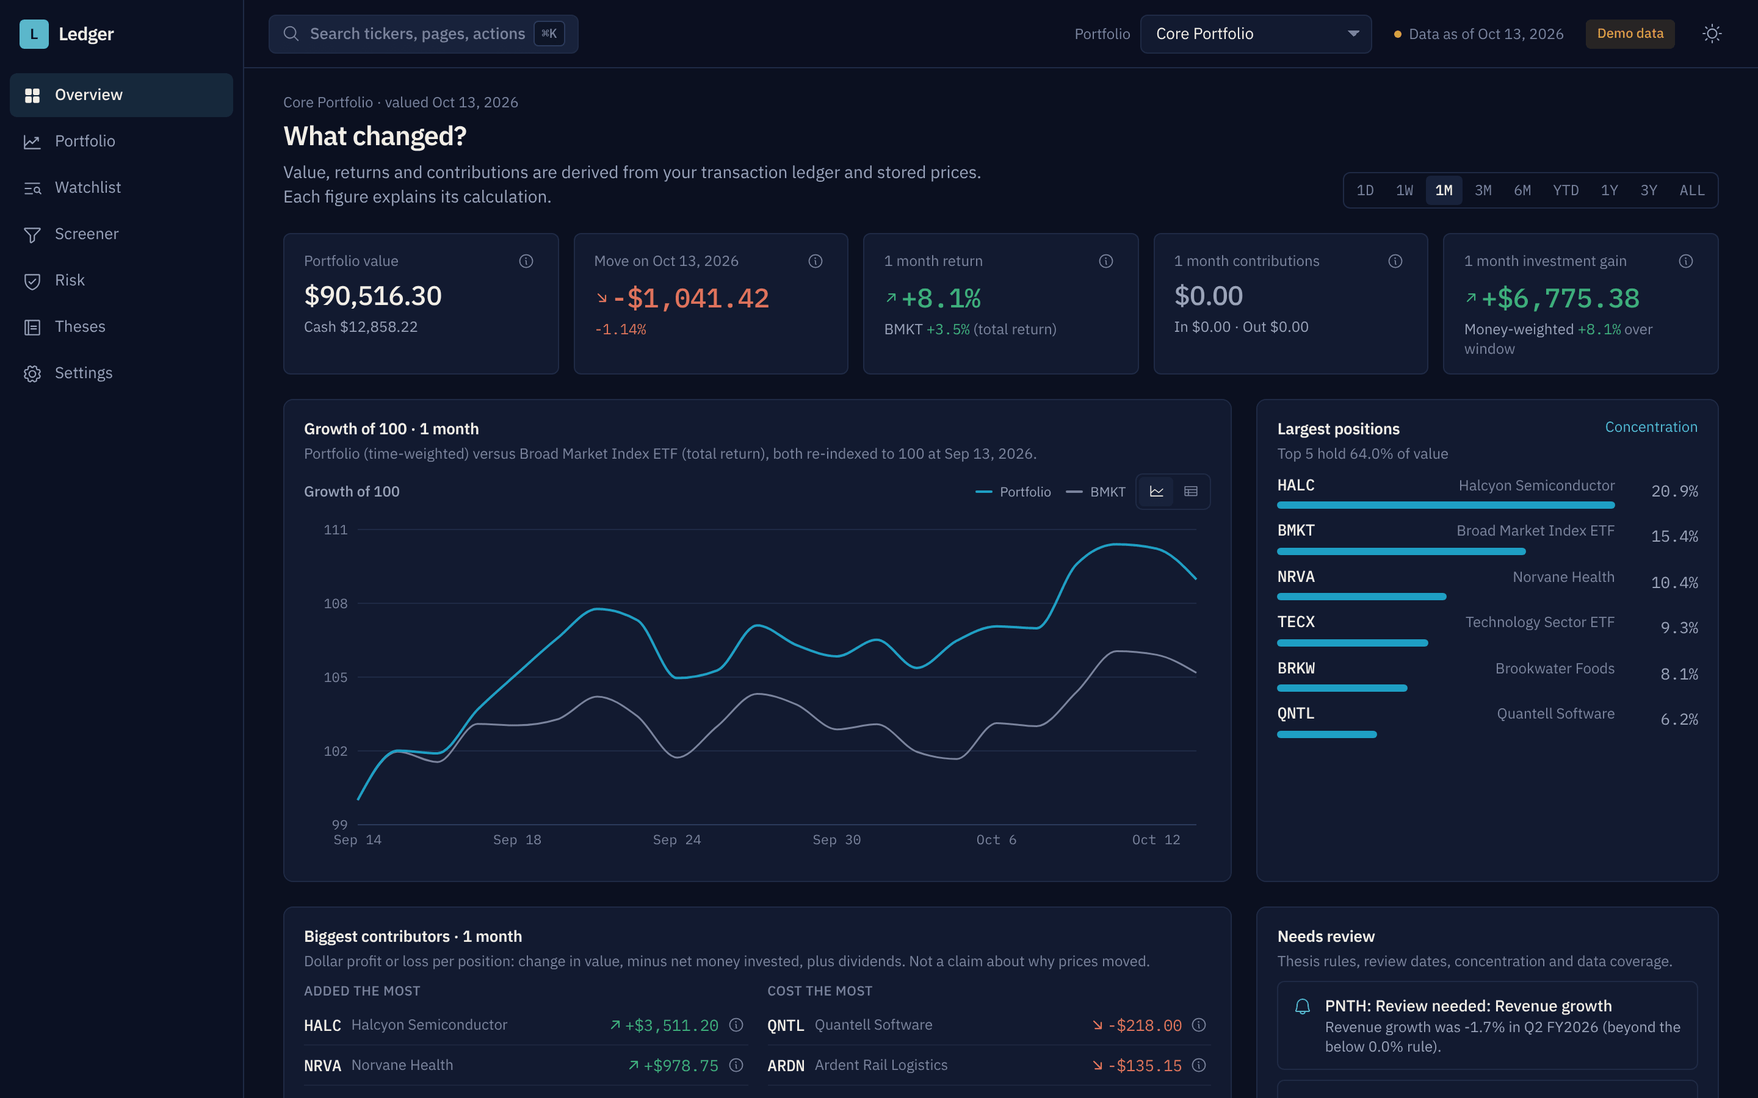
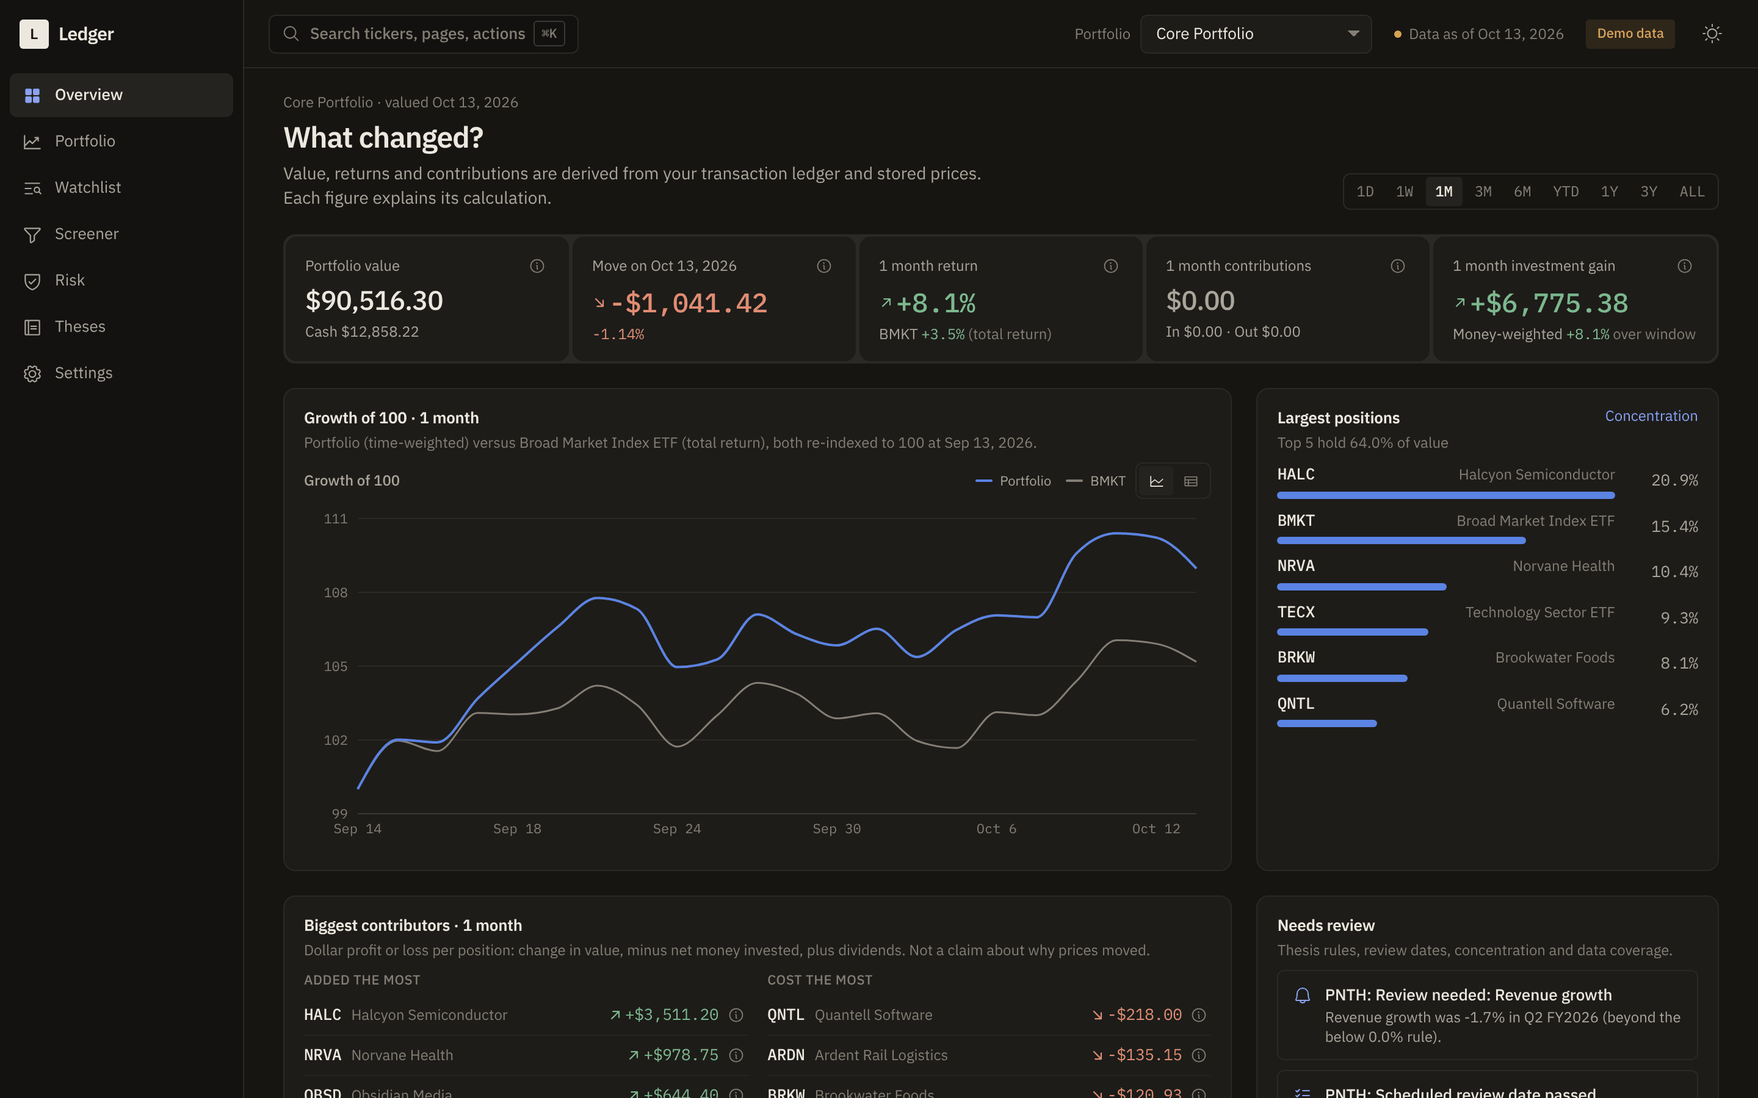
Restyle the interface: warm graphite and paper, one cobalt accent
Replace the navy-and-cyan terminal palette with warm neutral surfaces
(graphite in dark, paper in light) and a single desaturated cobalt
accent reserved for interactive elements. Gains are sage, losses are
terracotta, warnings stay amber. Chart series were re-stepped and
validated for colour-vision separation and contrast in both themes.

Summary metrics now render as one divided strip (tile-strip utility)
instead of a row of bordered cards; an odd last tile spans the row on
narrow screens so no cell is left empty. The sidebar uses an ink logo
mark and a neutral active state with an accent icon, the command
palette highlights with a neutral lift, dialogs contain overscroll,
the radius scale is 3/6/10, shadows are tinted, and text selection
uses the accent with readable contrast.

Screenshots in docs/screenshots and the README design note are
updated to match.

Claude-Session: https://claude.ai/code/session_01RNrmZWSqPuwFyxAM7kdq6o

diff --git a/src/app/globals.css b/src/app/globals.css
@@ -8,88 +8,91 @@
 /* ------------------------------------------------------------------ */
 :root {
   color-scheme: light;
-  --bg: #f4f6f9;
-  --panel: #ffffff;
-  --panel-raised: #f8fafc;
-  --panel-sunken: #eef1f6;
-  --border: #e2e7ef;
-  --border-strong: #c9d2df;
-  --text: #121826;
-  --text-secondary: #4f5b70;
-  --text-muted: #65718a;
-  --text-inverse: #f6f7fa;
-  --accent: #0e7c8c;
-  --accent-strong: #0a6472;
-  --accent-soft: rgba(14, 124, 140, 0.1);
+  /* Paper: warm neutral, no blue cast. */
+  --bg: #f3f2ee;
+  --panel: #fcfcfb;
+  --panel-raised: #f6f5f2;
+  --panel-sunken: #ebe9e4;
+  --border: #e3e0da;
+  --border-strong: #cdc9c1;
+  --text: #1d1b18;
+  --text-secondary: #56524c;
+  --text-muted: #6f6a62;
+  --text-inverse: #f7f6f3;
+  /* One accent, used for links, focus, the active tab and primary actions only. */
+  --accent: #3659c0;
+  --accent-strong: #2a49a6;
+  --accent-soft: rgba(54, 89, 192, 0.09);
   --accent-contrast: #ffffff;
-  --positive: #177a4f;
-  --positive-soft: rgba(23, 122, 79, 0.1);
-  --negative: #b8402b;
-  --negative-soft: rgba(184, 64, 43, 0.1);
-  --warning: #9a6b00;
-  --warning-soft: rgba(154, 107, 0, 0.1);
-  --focus: #0e7c8c;
-  --shadow: 0 1px 2px rgba(18, 24, 38, 0.06), 0 4px 16px rgba(18, 24, 38, 0.06);
-  --overlay: rgba(18, 24, 38, 0.4);
+  --positive: #2b7a4b;
+  --positive-soft: rgba(43, 122, 75, 0.1);
+  --negative: #b2452d;
+  --negative-soft: rgba(178, 69, 45, 0.1);
+  --warning: #8a6214;
+  --warning-soft: rgba(138, 98, 20, 0.1);
+  --focus: #3659c0;
+  --shadow: 0 1px 2px rgba(42, 38, 30, 0.06), 0 6px 20px rgba(42, 38, 30, 0.08);
+  --overlay: rgba(29, 27, 24, 0.42);
 
-  /* Charts (validated with the dataviz palette checks against #ffffff). */
-  --chart-surface: #ffffff;
-  --chart-grid: #e7ebf2;
-  --chart-axis: #c9d2df;
-  --chart-text: #65718a;
-  --series-1: #0e96ad;
-  --series-2: #d95926;
-  --series-3: #6250d6;
-  --series-4: #d55181;
-  --series-5: #c98500;
-  --series-6: #008300;
-  --series-muted: #b6c0cf;
-  --chart-up: #177a4f;
-  --chart-down: #b8402b;
-  --chart-benchmark: #8a94a8;
+  /* Charts (validated with the dataviz palette checks against #fcfcfb). */
+  --chart-surface: #fcfcfb;
+  --chart-grid: #ebe9e4;
+  --chart-axis: #cdc9c1;
+  --chart-text: #6f6a62;
+  --series-1: #3b63c9;
+  --series-2: #eb6834;
+  --series-3: #1baf7a;
+  --series-4: #eda100;
+  --series-5: #e87ba4;
+  --series-6: #6250d6;
+  --series-muted: #c4c0b8;
+  --chart-up: #2b7a4b;
+  --chart-down: #b2452d;
+  --chart-benchmark: #8c877e;
 }
 
 [data-theme="dark"] {
   color-scheme: dark;
-  --bg: #0b1020;
-  --panel: #121a30;
-  --panel-raised: #18223c;
-  --panel-sunken: #0d1427;
-  --border: #1f2a45;
-  --border-strong: #2d3a5c;
-  --text: #f2eee6;
-  --text-secondary: #9aa3b8;
-  --text-muted: #7a849e;
-  --text-inverse: #0b1020;
-  --accent: #5cb8cc;
-  --accent-strong: #7ccadb;
-  --accent-soft: rgba(92, 184, 204, 0.14);
-  --accent-contrast: #0b1020;
-  --positive: #3eaf7c;
-  --positive-soft: rgba(62, 175, 124, 0.14);
-  --negative: #e0735e;
-  --negative-soft: rgba(224, 115, 94, 0.14);
-  --warning: #d9a441;
-  --warning-soft: rgba(217, 164, 65, 0.14);
-  --focus: #7ccadb;
-  --shadow: 0 1px 2px rgba(0, 0, 0, 0.3), 0 8px 24px rgba(0, 0, 0, 0.35);
-  --overlay: rgba(4, 7, 16, 0.6);
+  /* Graphite: warm near-black, never pure black and never navy. */
+  --bg: #161513;
+  --panel: #1d1c19;
+  --panel-raised: #252320;
+  --panel-sunken: #121110;
+  --border: #2b2926;
+  --border-strong: #3b3834;
+  --text: #ece8df;
+  --text-secondary: #aaa49a;
+  --text-muted: #847e74;
+  --text-inverse: #161513;
+  --accent: #8ea4f0;
+  --accent-strong: #a6b7f4;
+  --accent-soft: rgba(142, 164, 240, 0.13);
+  --accent-contrast: #161513;
+  --positive: #7cb98f;
+  --positive-soft: rgba(124, 185, 143, 0.13);
+  --negative: #e38b73;
+  --negative-soft: rgba(227, 139, 115, 0.13);
+  --warning: #d8a74f;
+  --warning-soft: rgba(216, 167, 79, 0.13);
+  --focus: #a6b7f4;
+  --shadow: 0 1px 2px rgba(0, 0, 0, 0.35), 0 10px 28px rgba(0, 0, 0, 0.4);
+  --overlay: rgba(10, 9, 8, 0.64);
 
-  /* Charts (validated against the dark panel #131a30). */
-  --chart-surface: #121a30;
-  --chart-grid: #1f2a45;
-  --chart-axis: #2d3a5c;
-  --chart-text: #7a849e;
-  --series-1: #1e9fc4;
+  /* Charts (validated against the dark panel #1d1c19). */
+  --chart-surface: #1d1c19;
+  --chart-grid: #2b2926;
+  --chart-axis: #3b3834;
+  --chart-text: #847e74;
+  --series-1: #5a83e3;
   --series-2: #d95926;
-  --series-3: #9085e9;
-  --series-4: #d55181;
-  --series-5: #c98500;
-  --series-6: #199e70;
-  --series-muted: #3b4766;
-  --chart-up: #3eaf7c;
-  --chart-down: #e0735e;
-  --chart-benchmark: #7a849e;
+  --series-3: #199e70;
+  --series-4: #c98500;
+  --series-5: #d55181;
+  --series-6: #9085e9;
+  --series-muted: #3f3c37;
+  --chart-up: #7cb98f;
+  --chart-down: #e38b73;
+  --chart-benchmark: #847e74;
 }
 
 @theme inline {
@@ -122,9 +125,9 @@
   --font-sans: var(--font-plex-sans), system-ui, sans-serif;
   --font-mono: var(--font-plex-mono), ui-monospace, monospace;
 
-  --radius-sm: 4px;
+  --radius-sm: 3px;
   --radius-md: 6px;
-  --radius-lg: 8px;
+  --radius-lg: 10px;
 
   --shadow-panel: var(--shadow);
 }
@@ -148,11 +151,17 @@
     font-size: 14px;
     line-height: 1.5;
     min-height: 100dvh;
-    overscroll-behavior-y: none;
+  }
+
+  @media (pointer: fine) {
+    html {
+      overscroll-behavior-y: none;
+    }
   }
 
   ::selection {
-    background: var(--accent-soft);
+    background: var(--accent);
+    color: var(--accent-contrast);
   }
 
   :focus-visible {
@@ -224,6 +233,27 @@
   background: var(--panel);
   border: 1px solid var(--border);
   border-radius: var(--radius-lg);
+}
+
+/* A group of stat tiles reads as one strip: shared frame, hairline dividers, no card-per-number. */
+@utility tile-strip {
+  display: grid;
+  overflow: hidden;
+  background: var(--border);
+  border: 1px solid var(--border);
+  border-radius: var(--radius-lg);
+  gap: 1px;
+  & > * {
+    border: 0;
+    border-radius: 0;
+    background: var(--panel);
+  }
+  /* Two-column strips never leave an empty cell: an odd last tile spans the row. */
+  @media (max-width: 1023px) {
+    & > *:last-child:nth-child(odd) {
+      grid-column: 1 / -1;
+    }
+  }
 }
 
 @utility hairline-b {
@@ -327,7 +357,7 @@
   color: var(--text);
 }
 [cmdk-item][data-selected="true"] {
-  background: var(--accent-soft);
+  background: var(--panel-raised);
 }
 [cmdk-empty] {
   padding: 24px 16px;

diff --git a/src/app/risk/page.tsx b/src/app/risk/page.tsx
@@ -53,7 +53,7 @@ export default async function RiskPage({ searchParams }: { searchParams: SearchP
         }
       />
       <div className="flex flex-col gap-5">
-        <div className="grid grid-cols-2 gap-3 lg:grid-cols-6">
+        <div className="tile-strip grid-cols-2 lg:grid-cols-6">
           <StatTile label="Annualised volatility" value={<span className="num-sans">{risk.portfolio.volatility.value === null ? <span className="text-base text-fg-muted">n/a</span> : formatPct(risk.portfolio.volatility.value)}</span>} sub={risk.portfolio.volatility.reason ?? `Benchmark ${risk.benchmark.volatility.value === null ? "n/a" : formatPct(risk.benchmark.volatility.value)}`} explain={{ ...common, title: "Portfolio volatility", value: risk.portfolio.volatility.value === null ? "n/a" : formatPct(risk.portfolio.volatility.value), definition: "Sample standard deviation of the portfolio's daily time-weighted returns, annualised by the square root of 252." }} />
           <StatTile label="Maximum drawdown" value={<span className="num-sans">{risk.portfolio.maxDrawdown === null ? <span className="text-base text-fg-muted">n/a</span> : formatPct(risk.portfolio.maxDrawdown)}</span>} sub={`Benchmark ${risk.benchmark.maxDrawdown === null ? "n/a" : formatPct(risk.benchmark.maxDrawdown)}`} explain={{ ...common, title: "Maximum drawdown", value: risk.portfolio.maxDrawdown === null ? "n/a" : formatPct(risk.portfolio.maxDrawdown), definition: "Deepest peak-to-trough decline of the time-weighted growth index inside the window, so deposits cannot hide losses." }} />
           <StatTile label={`Beta vs ${risk.benchmark.symbol}`} value={<span className="num-sans">{risk.portfolio.beta.value === null ? <span className="text-base text-fg-muted">n/a</span> : formatNumber(risk.portfolio.beta.value, 2)}</span>} sub={risk.portfolio.beta.reason ?? (risk.portfolio.beta.rSquared !== null ? `R² ${formatNumber(risk.portfolio.beta.rSquared, 2)} · ${risk.portfolio.beta.observations} aligned days` : undefined)} explain={{ ...common, title: "Portfolio beta", value: risk.portfolio.beta.value === null ? "n/a" : formatNumber(risk.portfolio.beta.value, 2), definition: `Covariance of portfolio and benchmark daily returns divided by the benchmark's variance, over dates both have data. Benchmark series is ${risk.benchmark.adjustment === "splits_dividends" ? "adjusted for splits and dividends" : risk.benchmark.adjustment === "splits" ? "split-adjusted" : "raw"}.` }} />
@@ -64,7 +64,7 @@ export default async function RiskPage({ searchParams }: { searchParams: SearchP
 
         <div className="grid gap-5 lg:grid-cols-2">
           <Panel>
-            <PanelHeader title="Correlation of daily returns" description={corr.reason ?? `Pearson correlation over ${corr.observations} common trading days. Cyan = moves together, orange = moves opposite.`} />
+            <PanelHeader title="Correlation of daily returns" description={corr.reason ?? `Pearson correlation over ${corr.observations} common trading days. Blue = moves together, orange = moves opposite.`} />
             <PanelBody>
               {corr.reason ? (
                 <EmptyState title="Not enough common history" description={corr.reason} />

diff --git a/src/components/company/risk-tab.tsx b/src/components/company/risk-tab.tsx
@@ -45,7 +45,7 @@ export function RiskTab({ symbol, windows, benchmarkSymbol, adjustment }: { symb
           Historical estimates · {windowLabel} · {w.stats.observations} daily observations{benchmarkSymbol ? ` · beta versus ${benchmarkSymbol} on ${w.alignedObservations} aligned days` : ""}
         </p>
       </div>
-      <div className="grid grid-cols-2 gap-3 lg:grid-cols-4">
+      <div className="tile-strip grid-cols-2 lg:grid-cols-4">
         <StatTile label="Annualised volatility" value={<span className="num-sans">{w.stats.volatility.value === null ? <span className="text-base text-fg-muted">n/a</span> : formatPct(w.stats.volatility.value)}</span>} sub={w.stats.volatility.reason ?? `Std dev of ${w.stats.volatility.observations} daily returns x sqrt(252)`} explain={{ ...common, title: `Annualised volatility · ${symbol}`, value: w.stats.volatility.value === null ? "n/a" : formatPct(w.stats.volatility.value), definition: "Sample standard deviation of daily simple returns, multiplied by the square root of 252 trading days." }} />
         <StatTile label="Maximum drawdown" value={<span className="num-sans">{w.drawdown?.maxDrawdown === null || w.drawdown === null ? <span className="text-base text-fg-muted">n/a</span> : formatPct(w.drawdown.maxDrawdown)}</span>} sub={w.drawdown?.peakDate && w.drawdown.troughDate ? `${formatDate(w.drawdown.peakDate)} to ${formatDate(w.drawdown.troughDate)}${w.drawdown.recoveryDate ? `, recovered ${formatDate(w.drawdown.recoveryDate)}` : ", not recovered"}` : undefined} explain={{ ...common, title: `Maximum drawdown · ${symbol}`, value: w.drawdown?.maxDrawdown === null || w.drawdown === null ? "n/a" : formatPct(w.drawdown.maxDrawdown), definition: "Largest peak-to-trough decline in the adjusted close within the window." }} />
         <StatTile label={`Beta vs ${benchmarkSymbol ?? "benchmark"}`} value={<span className="num-sans">{w.stats.beta.value === null ? <span className="text-base text-fg-muted">n/a</span> : formatNumber(w.stats.beta.value, 2)}</span>} sub={w.stats.beta.reason ?? (w.stats.beta.rSquared !== null ? `R² ${formatNumber(w.stats.beta.rSquared, 2)} over ${w.stats.beta.observations} days` : undefined)} explain={{ ...common, title: `Beta · ${symbol}`, value: w.stats.beta.value === null ? "n/a" : formatNumber(w.stats.beta.value, 2), definition: `Covariance of the stock's daily returns with the benchmark's, divided by the benchmark's variance, over the dates both have prices. R² shows how much of the stock's variance the benchmark explains.` }} />

diff --git a/src/components/shell/side-nav.tsx b/src/components/shell/side-nav.tsx
@@ -6,7 +6,7 @@ import { Buildings, ChartLineUp, Funnel, Gear, ListMagnifyingGlass, Notebook, Sh
 import { cn } from "@/lib/cn";
 import { NAV_ITEMS, type NavItem } from "./nav-items";
 
-const ICONS: Record<NavItem["icon"], React.ComponentType<{ size?: number; weight?: "regular" | "fill" | "bold" | "duotone"; "aria-hidden"?: boolean }>> = {
+const ICONS: Record<NavItem["icon"], React.ComponentType<{ size?: number; weight?: "regular" | "fill" | "bold" | "duotone"; "aria-hidden"?: boolean; className?: string }>> = {
   overview: SquaresFour,
   portfolio: ChartLineUp,
   company: Buildings,
@@ -20,10 +20,10 @@ const ICONS: Record<NavItem["icon"], React.ComponentType<{ size?: number; weight
 export function SideNav() {
   const pathname = usePathname();
   return (
-    <nav aria-label="Primary" className="hidden lg:flex lg:w-[200px] lg:shrink-0 lg:flex-col lg:border-r lg:border-border lg:bg-panel-sunken/40">
+    <nav aria-label="Primary" className="hidden lg:flex lg:w-[200px] lg:shrink-0 lg:flex-col lg:border-r lg:border-border lg:bg-panel-sunken/60">
       <div className="flex h-14 items-center gap-2 px-4">
         <Link href="/" className="flex items-center gap-2 rounded-md focus-visible:outline-2 focus-visible:outline-focus">
-          <span aria-hidden className="grid h-6 w-6 place-items-center rounded-sm bg-accent text-accent-contrast font-mono text-[12px] font-semibold">
+          <span aria-hidden className="grid h-6 w-6 place-items-center rounded-sm bg-fg text-bg font-mono text-[12px] font-semibold">
             L
           </span>
           <span className="text-[15px] font-semibold tracking-tight text-fg">Ledger</span>
@@ -40,10 +40,10 @@ export function SideNav() {
                 aria-current={active ? "page" : undefined}
                 className={cn(
                   "flex h-9 items-center gap-2.5 rounded-md px-2.5 text-[13px] transition-colors focus-visible:outline-2 focus-visible:outline-focus",
-                  active ? "bg-accent-soft text-fg font-medium" : "text-fg-secondary hover:bg-panel-raised hover:text-fg",
+                  active ? "bg-panel-raised text-fg font-medium" : "text-fg-secondary hover:bg-panel-raised/60 hover:text-fg",
                 )}
               >
-                <Icon size={17} weight={active ? "fill" : "regular"} aria-hidden />
+                <Icon size={17} weight={active ? "fill" : "regular"} aria-hidden className={active ? "text-accent" : undefined} />
                 {item.label}
               </Link>
             </li>

diff --git a/src/components/metrics/stat-tile.tsx b/src/components/metrics/stat-tile.tsx
@@ -5,9 +5,9 @@ import { ExplainButton } from "./explain-button";
 
 export function StatTile({ label, value, sub, explain, className, tone }: { label: string; value: React.ReactNode; sub?: React.ReactNode; explain?: ExplainDetail; className?: string; tone?: "default" | "muted" }) {
   return (
-    <div className={cn("flex min-w-0 flex-col gap-1 rounded-md border border-border bg-panel px-4 py-3", className)}>
+    <div className={cn("flex min-w-0 flex-col gap-1 rounded-lg border border-border bg-panel px-4 py-3.5", className)}>
       <div className="flex items-center justify-between gap-2">
-        <span className="text-xs leading-4 text-fg-muted">{label}</span>
+        <span className="text-xs leading-4 text-fg-secondary">{label}</span>
         {explain ? <ExplainButton detail={explain} /> : null}
       </div>
       <div className={cn("font-sans text-[22px] font-medium leading-7 tracking-tight", tone === "muted" ? "text-fg-secondary" : "text-fg")}>{value}</div>

diff --git a/src/components/shell/top-bar.tsx b/src/components/shell/top-bar.tsx
@@ -51,7 +51,7 @@ export function TopBar({ data }: { data: ShellData }) {
         Skip to content
       </a>
       <span className="text-[15px] font-semibold tracking-tight text-fg lg:hidden">Ledger</span>
-      <Button variant="secondary" size="sm" className="hidden min-w-[220px] justify-between text-fg-muted sm:flex" onClick={() => setPaletteOpen(true)} aria-label="Search tickers and commands">
+      <Button variant="secondary" size="sm" className="hidden min-w-[240px] justify-between bg-panel-sunken/70 text-fg-muted hover:bg-panel-sunken sm:flex" onClick={() => setPaletteOpen(true)} aria-label="Search tickers and commands">
         <span className="flex items-center gap-2">
           <MagnifyingGlass size={15} aria-hidden />
           Search tickers, pages, actions

diff --git a/src/components/shell/page-header.tsx b/src/components/shell/page-header.tsx
@@ -6,7 +6,7 @@ export function PageHeader({ title, description, actions, eyebrow, className }: 
     <div className={cn("mb-5 flex flex-col gap-3 sm:flex-row sm:items-end sm:justify-between", className)}>
       <div className="min-w-0">
         {eyebrow ? <div className="mb-1 text-xs text-fg-muted">{eyebrow}</div> : null}
-        <h1 className="text-xl font-semibold tracking-tight text-fg sm:text-[22px]">{title}</h1>
+        <h1 className="text-[22px] font-semibold tracking-tight text-fg sm:text-2xl">{title}</h1>
         {description ? <p className="mt-1 max-w-[70ch] text-sm text-fg-secondary">{description}</p> : null}
       </div>
       {actions ? <div className="flex flex-wrap items-center gap-2">{actions}</div> : null}

diff --git a/src/components/company/overview-tab.tsx b/src/components/company/overview-tab.tsx
@@ -37,7 +37,7 @@ export function OverviewTab({ security, metrics, fin, prices, benchmark, benchma
           </PanelBody>
         </Panel>
       ) : (
-        <div className="grid grid-cols-2 gap-3 md:grid-cols-3 xl:grid-cols-6">
+        <div className="tile-strip grid-cols-2 md:grid-cols-3 xl:grid-cols-6">
           <StatTile
             label="Market cap"
             value={<span className="num-sans">{metrics.marketCap === null ? <span className="text-fg-muted">n/a</span> : formatMoneyCompact(metrics.marketCap)}</span>}

diff --git a/src/components/portfolio/performance-tiles.tsx b/src/components/portfolio/performance-tiles.tsx
@@ -13,7 +13,7 @@ export function PerformanceTiles({ snapshot }: { snapshot: PortfolioSnapshot }) 
   const fees = Number(ledger.totals.standaloneFees);
   const totalGain = unrealized + realized + dividends + interest - fees;
   return (
-    <div className="grid grid-cols-2 gap-3 lg:grid-cols-6">
+    <div className="tile-strip grid-cols-2 lg:grid-cols-6">
       <StatTile
         label="Total value"
         value={<span className="num-sans">{formatMoney(valuation.totalValue)}</span>}

diff --git a/src/components/ui/dialog.tsx b/src/components/ui/dialog.tsx
@@ -34,7 +34,7 @@ export function DialogContent({ title, description, children, className, side = 
             </Button>
           </RadixDialog.Close>
         </div>
-        <div className="min-h-0 flex-1 overflow-y-auto px-5 py-4 scrollbar-thin">{children}</div>
+        <div className="min-h-0 flex-1 overflow-y-auto overscroll-contain px-5 py-4 scrollbar-thin">{children}</div>
       </RadixDialog.Content>
     </RadixDialog.Portal>
   );

diff --git a/src/components/overview/summary-tiles.tsx b/src/components/overview/summary-tiles.tsx
@@ -13,7 +13,7 @@ export function SummaryTiles({ snapshot }: { snapshot: PortfolioSnapshot }) {
   const twr = period.twr?.totalReturn ?? null;
   const gain = period.gain;
   return (
-    <div className="grid grid-cols-2 gap-3 lg:grid-cols-5">
+    <div className="tile-strip grid-cols-2 lg:grid-cols-5">
       <StatTile
         label="Portfolio value"
         value={<span className="num-sans">{formatMoney(valuation.totalValue)}</span>}

diff --git a/README.md b/README.md
@@ -248,7 +248,7 @@ docs            METHODOLOGY.md (calculation conventions), FEATURES.md (scope and
 
 Pages render on the server straight from SQLite. The interactive pieces (charts, tables, the DCF lab, forms) are client components that call server actions. Every externally sourced value keeps its provider, reference, reporting period or market timestamp, units and retrieval time.
 
-On the design side: dark research-terminal theme by default (ink navy, warm off-white text, a restrained cyan accent, muted emerald and coral for gains and losses) with a fully supported light theme. Tabular figures everywhere so columns of numbers line up. Chart colours were checked for colour-vision separation, every chart has a table twin and a text summary, and colour never carries meaning on its own; there's always a sign, an icon or a label next to it.
+On the design side: warm graphite by default and a paper-toned light theme, both built from the same tokens. There is one accent, a quiet cobalt, and it only ever means "interactive": links, the active tab, focus, the primary button. Gains are sage, losses are terracotta, and neither is ever the only signal, since every value also carries a sign, an icon or a label. Summary numbers sit in a single divided strip rather than a row of cards, tabular figures keep columns aligned, and the chart palette was run through a colour-vision validator in both themes. Every chart has a table twin and a text summary.
 
 <br>
 
